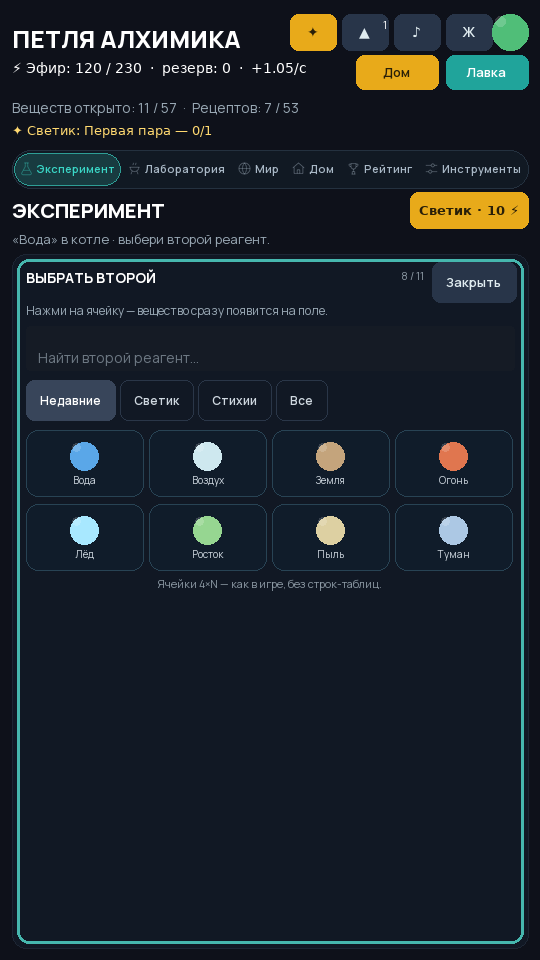
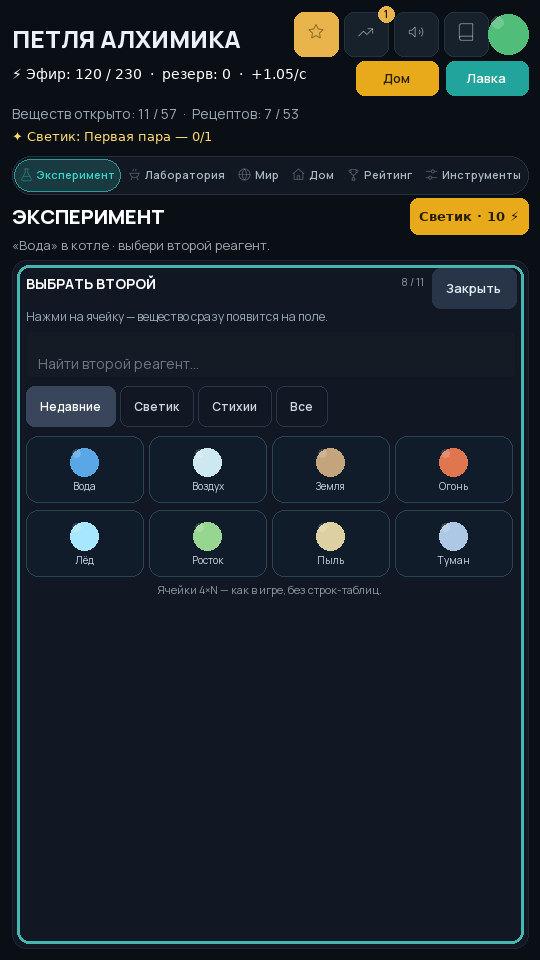
feat(ui): блок 1 «Шапка» по варианту A (согласовано по мок-кадру)
- иконки сета вместо глифов ✦▲♪Ж в кнопках шапки (star/trend_up/volume/book),
  цвета кнопок игры не менялись (gold/secondary)
- тач-зона кнопок шапки 44×44 (было 46×36)
- бейдж-пилюля счётчика улучшений вместо «▲N» в тексте кнопки (UiIcon.badge)
- пузырь Светика рисуется ниже компаньона и не перекрывает кнопки/ресурсы
- мок и превью синхронизированы с вариантом A; кадр block1_header_variants.png

diff --git a/alchemists-loop/tools/ui-preview/app.js b/alchemists-loop/tools/ui-preview/app.js
@@ -47,7 +47,18 @@ const orb = (col, cnt) => `
   </span>`;
 
 /* ---------- блоки экрана: всё как в текущей игре (после отката) ---------- */
-function header() {
+function header(mode) {
+  if (mode === "after") {
+    // блок 1, вариант A: иконки, 44x44, бейдж-пилюля; цвета кнопок как в игре
+    return `<div class="head">
+      <div class="title">ПЕТЛЯ АЛХИМИКА</div>
+      <button class="hbtn gold">${ic("star", 20)}</button>
+      <button class="hbtn">${ic("trend_up", 20)}<span class="bnum">1</span></button>
+      <button class="hbtn">${ic("volume", 20)}</button>
+      <button class="hbtn">${ic("book", 20)}</button>
+      <span class="orb" style="width:40px;height:40px;background:radial-gradient(circle at 35% 30%, #9fe8b0, #2f8f5b)"></span>
+    </div>`;
+  }
   return `<div class="head">
     <div class="title">ПЕТЛЯ АЛХИМИКА</div>
     <button class="hbtn gold">✦</button>
@@ -82,7 +93,7 @@ function cells() {
 /* ---------- экраны ---------- */
 function screenLab(mode) {
   return `<div class="screen">
-    ${header()}${resrow()}${tabs(mode, 1)}
+    ${header(mode)}${resrow()}${tabs(mode, 1)}
     <div class="panel" style="flex:1">
       <div style="display:flex;align-items:center;gap:18px;justify-content:center;padding:14px 0 6px">
         <div style="text-align:center">${orb("#e0764f")}<div class="muted" style="font-size:11px;margin-top:4px">A</div></div>
@@ -115,7 +126,7 @@ function screenLab(mode) {
 
 function screenExperiment(mode) {
   return `<div class="screen">
-    ${header()}${resrow()}${tabs(mode, 0)}
+    ${header(mode)}${resrow()}${tabs(mode, 0)}
     <div style="display:flex;align-items:center;gap:10px">
       <div class="sect" style="flex:1;font-size:20px;color:#fff;font-weight:800">ЭКСПЕРИМЕНТ</div>
       <button class="btn k2" style="height:36px;padding:0 12px;font-size:13px">✦ Светик · 10 ⚡</button>
@@ -143,7 +154,7 @@ function screenHouse(mode) {
   const furn = [["🪟","Окно · 1/10","Классическое"],["🧶","Ковёр · 3/10","Восточный"],
                 ["🪑","Стул · 1/10","Классический"],["🪴","Растение · 1/10","В горшке"]];
   return `<div class="screen">
-    ${header()}${resrow()}${tabs(mode, 3)}
+    ${header(mode)}${resrow()}${tabs(mode, 3)}
     <div class="panel" style="flex:1;overflow:hidden">
       <div class="poptitle" style="font-size:22px;text-align:center">ДОМ СВЕТИКА</div>
       <div class="popsub" style="text-align:center">Уют, обстановка и произвольные цвета — видно другим игрокам.</div>
@@ -161,7 +172,7 @@ function screenHouse(mode) {
 
 function screenPopup(mode) {
   return `<div class="screen">
-    ${header()}${resrow()}${tabs(mode, 1)}
+    ${header(mode)}${resrow()}${tabs(mode, 1)}
     <div class="panel" style="flex:1"></div>
     <div class="dim"><div class="popcard">
       <div class="poptitle">НОВЫЙ РЕЦЕПТ!</div>

diff --git a/alchemists-loop/tools/ui-preview/render_shots.py b/alchemists-loop/tools/ui-preview/render_shots.py
@@ -183,8 +183,11 @@ def new_phone() -> Image.Image:
 def header(img, mode):
     C = AFTER if mode == "after" else BEFORE
     img.paste(Image.new("RGBA", (W, H), C["bg0"]), (0, 0))
-    text(img, (12, 22), "ПЕТЛЯ АЛХИМИКА", size=24 if mode == "before" else 21,
-         weight=800, color=C["ink1"], tracking=0 if mode == "before" else 0.4)
+    if mode == "after":
+        # блок 1, вариант A: иконки, тач 44, бейдж-пилюля; цвета кнопок игры
+        _hz_head_buttons(img, 24, 0.0)
+        return 56
+    text(img, (12, 22), "ПЕТЛЯ АЛХИМИКА", size=24, weight=800, color=C["ink1"])
     x = W - 12 - 36 - 4 * (46 if mode == "before" else 44) - 3 * 6
     bw = 46 if mode == "before" else 44
     bh = 36 if mode == "before" else 44
@@ -209,6 +212,8 @@ def header(img, mode):
                 text(img, (bx + bw, y + 3), "1", size=11, weight=600, color=C["gold_ink"], anchor="mm")
     orb(img, W - 12 - 18, y + 18, 18, (80, 190, 120), mode=mode)
     return y + bh
+
+
 
 
 def resrow(img, top, mode):
@@ -293,7 +298,7 @@ def screen_lab(mode):
     tm, mode = mode, "before"
     img = new_phone()
     C = AFTER if mode == "after" else BEFORE
-    top = header(img, mode)
+    top = header(img, tm)
     top = resrow(img, top, mode)
     top = tabs(img, top, tm, 1)
     panel(img, [12, top, W - 12, H - 190 if mode == "after" else H - 168], mode)
@@ -366,7 +371,7 @@ def screen_experiment(mode):
     tm, mode = mode, "before"
     img = new_phone()
     C = BEFORE
-    top = header(img, mode)
+    top = header(img, tm)
     top = resrow(img, top, mode)
     top = tabs(img, top, tm, 0)
     text(img, (12, top), "ЭКСПЕРИМЕНТ", size=20, weight=800, color=(255, 255, 255))
@@ -417,7 +422,7 @@ def screen_house(mode):
     tm, mode = mode, "before"
     img = new_phone()
     C = AFTER if mode == "after" else BEFORE
-    top = header(img, mode)
+    top = header(img, tm)
     top = resrow(img, top, mode)
     top = tabs(img, top, tm, 3)
     panel(img, [12, top, W - 12, H - 12], mode)
@@ -543,6 +548,107 @@ def main() -> None:
     for name, img in shots.items():
         img.convert("RGB").save(OUT / f"{name}.png")
         print("wrote", OUT / f"{name}.png", img.size)
+
+
+
+
+# ================= итерация-2, блок 1: шапка и строка ресурсов =================
+HZ_H = 250
+
+
+def _hz_base() -> Image.Image:
+    return Image.new("RGBA", (W, HZ_H), BEFORE["bg0"] + (255,))
+
+
+def _hz_bubble(img, y):
+    rrect(img, [W - 242, y, W - 12, y + 56], 12, fill=(22, 32, 44, 250), outline=(44, 58, 75))
+    text(img, (W - 230, y + 12), "Привет! Я — Светик. Давай", size=13, color=(232, 241, 248))
+    text(img, (W - 230, y + 32), "сварим что-нибудь!", size=13, color=(232, 241, 248))
+
+
+def hz_before() -> Image.Image:
+    img = _hz_base()
+    text(img, (12, 20), "ПЕТЛЯ АЛХИМИКА", size=24, weight=800, color=(255, 255, 255))
+    x = W - 12 - 36 - 4 * 46 - 3 * 6
+    for i, (g, gold) in enumerate([("✦", True), ("▲", False), ("♪", False), ("Ж", False)]):
+        bx = x + i * 52
+        rrect(img, [bx, 14, bx + 46, 14 + 36], 8, fill=(232, 170, 26) if gold else (40, 53, 73))
+        text(img, (bx + 23, 32), g, size=14, weight=600,
+             color=(41, 31, 8) if gold else (224, 236, 240), anchor="mm")
+        if i == 1:
+            text(img, (bx + 40, 17), "1", size=11, color=(255, 255, 255))
+    orb(img, W - 30, 32, 18, (80, 190, 120))
+    text(img, (12, 66), "⚡ Эфир: 120 / 230  ·  резерв: 0  ·  +1.05/с", size=14, color=(255, 255, 255))
+    button(img, [W - 12 - 82 - 8 - 82, 60, 82, 34], "Дом", 2, "before")
+    button(img, [W - 12 - 82, 60, 82, 34], "Лавка", 1, "before")
+    text(img, (12, 104), "Веществ открыто: 11 / 57  ·  Рецептов: 7 / 53", size=14, color=BEFORE["ink2"])
+    text(img, (12, 130), "✦ Светик: Первая пара — 0/1", size=13, color=(255, 217, 112))
+    _hz_bubble(img, 58)  # перекрывает «Дом»/«Лавка» — как в игре сейчас
+    return img
+
+
+def _hz_head_buttons(img, title_size, tracking):
+    text(img, (12, 22), "ПЕТЛЯ АЛХИМИКА", size=title_size, weight=800,
+         color=AFTER["ink1"], tracking=tracking)
+    x = W - 12 - 40 - 4 * 44 - 3 * 6
+    for i, (nm, gold) in enumerate([("star", True), ("trend_up", False), ("volume", False), ("book", False)]):
+        bx = x + i * 50
+        if gold:
+            rrect(img, [bx, 12, bx + 44, 56], 10, fill=AFTER["gold"])
+            icon(img, nm, (bx + 12, 22, 20, 20), AFTER["gold_ink"])
+        else:
+            rrect(img, [bx, 12, bx + 44, 56], 10, fill=(24, 34, 46, 235), outline=AFTER["line"])
+            icon(img, nm, (bx + 12, 22, 20, 20), AFTER["ink1"])
+        if i == 1:
+            rrect(img, [bx + 34, 6, bx + 50, 22], 8, fill=AFTER["gold"])
+            text(img, (bx + 42, 14), "1", size=11, weight=600, color=AFTER["gold_ink"], anchor="mm")
+    orb(img, W - 32, 34, 20, (80, 190, 120))
+
+
+def hz_after_a() -> Image.Image:
+    """Минимум: иконки + тач 44 + бейдж-пилюля + пузырь не перекрывает кнопки."""
+    img = _hz_base()
+    _hz_head_buttons(img, 24, 0.0)
+    text(img, (12, 66), "⚡ Эфир: 120 / 230  ·  резерв: 0  ·  +1.05/с", size=14, color=(255, 255, 255))
+    button(img, [W - 12 - 82 - 8 - 82, 60, 82, 34], "Дом", 2, "before")
+    button(img, [W - 12 - 82, 60, 82, 34], "Лавка", 1, "before")
+    text(img, (12, 104), "Веществ открыто: 11 / 57  ·  Recipes: 7 / 53".replace("Recipes", "Рецептов"),
+         size=14, color=BEFORE["ink2"])
+    text(img, (12, 130), "✦ Светик: Первая пара — 0/1", size=13, color=(255, 217, 112))
+    _hz_bubble(img, 158)
+    return img
+
+
+def hz_after_b() -> Image.Image:
+    """Порядок: то же + KPI-чип эфира, равные «Дом/Лавка», тайтл 21 с трекингом."""
+    img = _hz_base()
+    _hz_head_buttons(img, 21, 0.4)
+    icon(img, "bolt", (12, 66, 18, 18), AFTER["accent"])
+    text(img, (36, 64), "120 / 230", size=16, weight=600, color=AFTER["ink1"])
+    text(img, (128, 68), "+1.05/с · резерв 0", size=13, color=AFTER["ink3"])
+    button(img, [W - 12 - 96 - 8 - 96, 60, 96, 40], "Дом", 0, "after", icon_name="home")
+    button(img, [W - 12 - 96, 60, 96, 40], "Лавка", 0, "after", icon_name="bag")
+    text(img, (12, 108), "Веществ открыто: 11 / 57  ·  Рецептов: 7 / 53", size=13, color=AFTER["ink2"])
+    icon(img, "star", (12, 130, 14, 14), AFTER["gold"])
+    text(img, (32, 129), "Светик: Первая пара — 0/1", size=13, color=AFTER["gold"])
+    _hz_bubble(img, 158)
+    return img
+
+
+def board_header() -> Image.Image:
+    variants = [("ДО · как сейчас в игре", hz_before()),
+                ("ПОСЛЕ A · минимум: иконки, тач 44, бейдж-пилюля", hz_after_a()),
+                ("ПОСЛЕ B · A + KPI-чип эфира, равные Дом/Лавка, тайтл 21", hz_after_b())]
+    img = Image.new("RGBA", (W + 40, len(variants) * (HZ_H + 64) + 90), (7, 11, 16, 255))
+    text(img, (20, 26), "Блок 1 · Шапка и строка ресурсов", size=24, weight=800, color=(234, 242, 247))
+    text(img, (20, 62), "Код игры не тронут: это мок-предложения для согласования.",
+         size=13, color=(126, 141, 156))
+    y = 90
+    for caption, sub in variants:
+        text(img, (20, y + 14), caption, size=14, weight=700, color=(169, 184, 198))
+        img.paste(sub, (20, y + 40), sub)
+        y += HZ_H + 64
+    return img
 
 
 if __name__ == "__main__":
